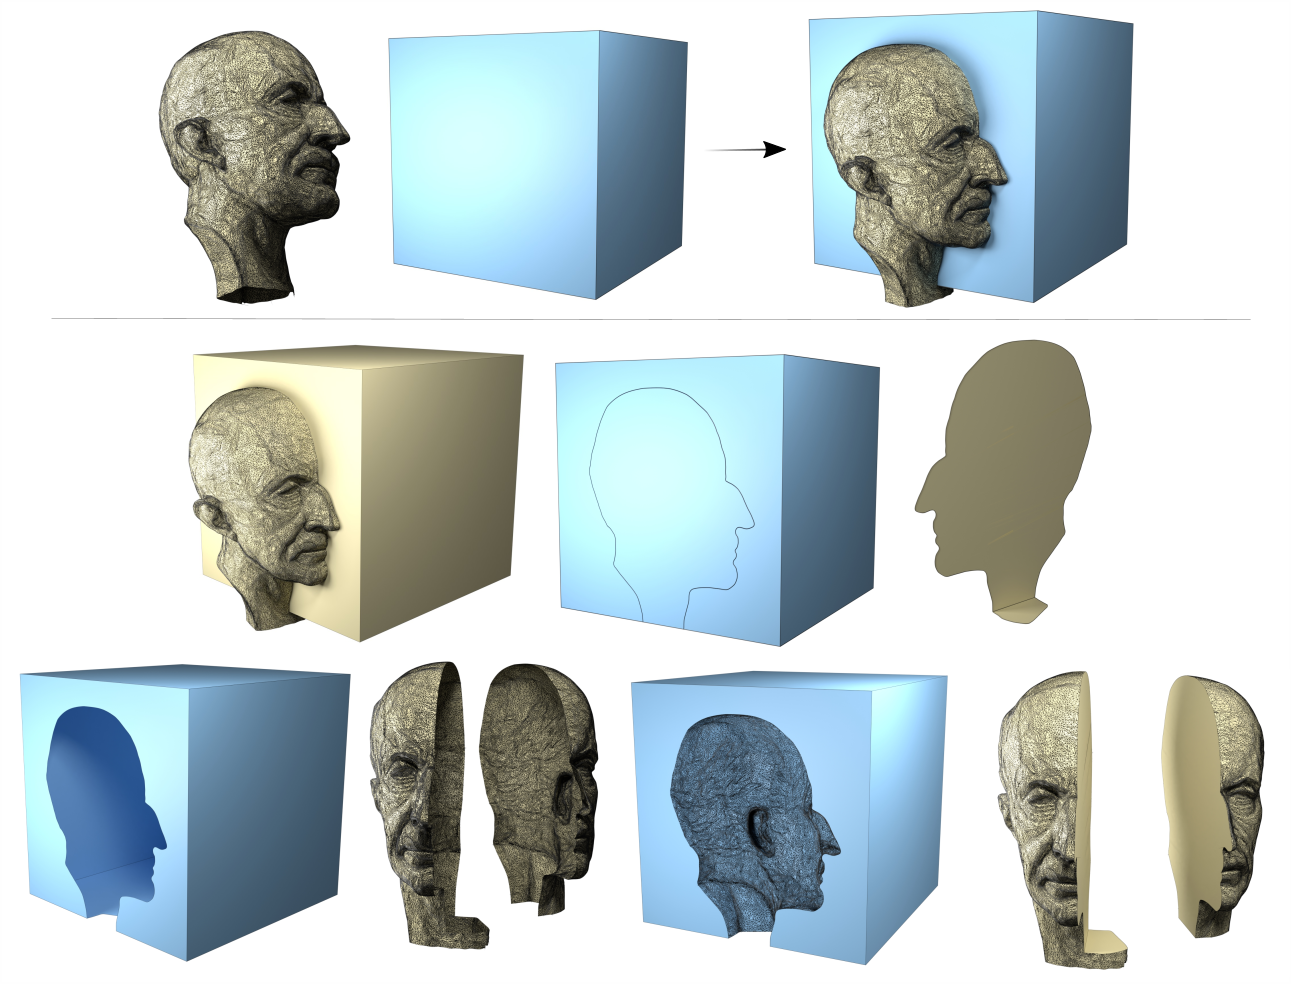
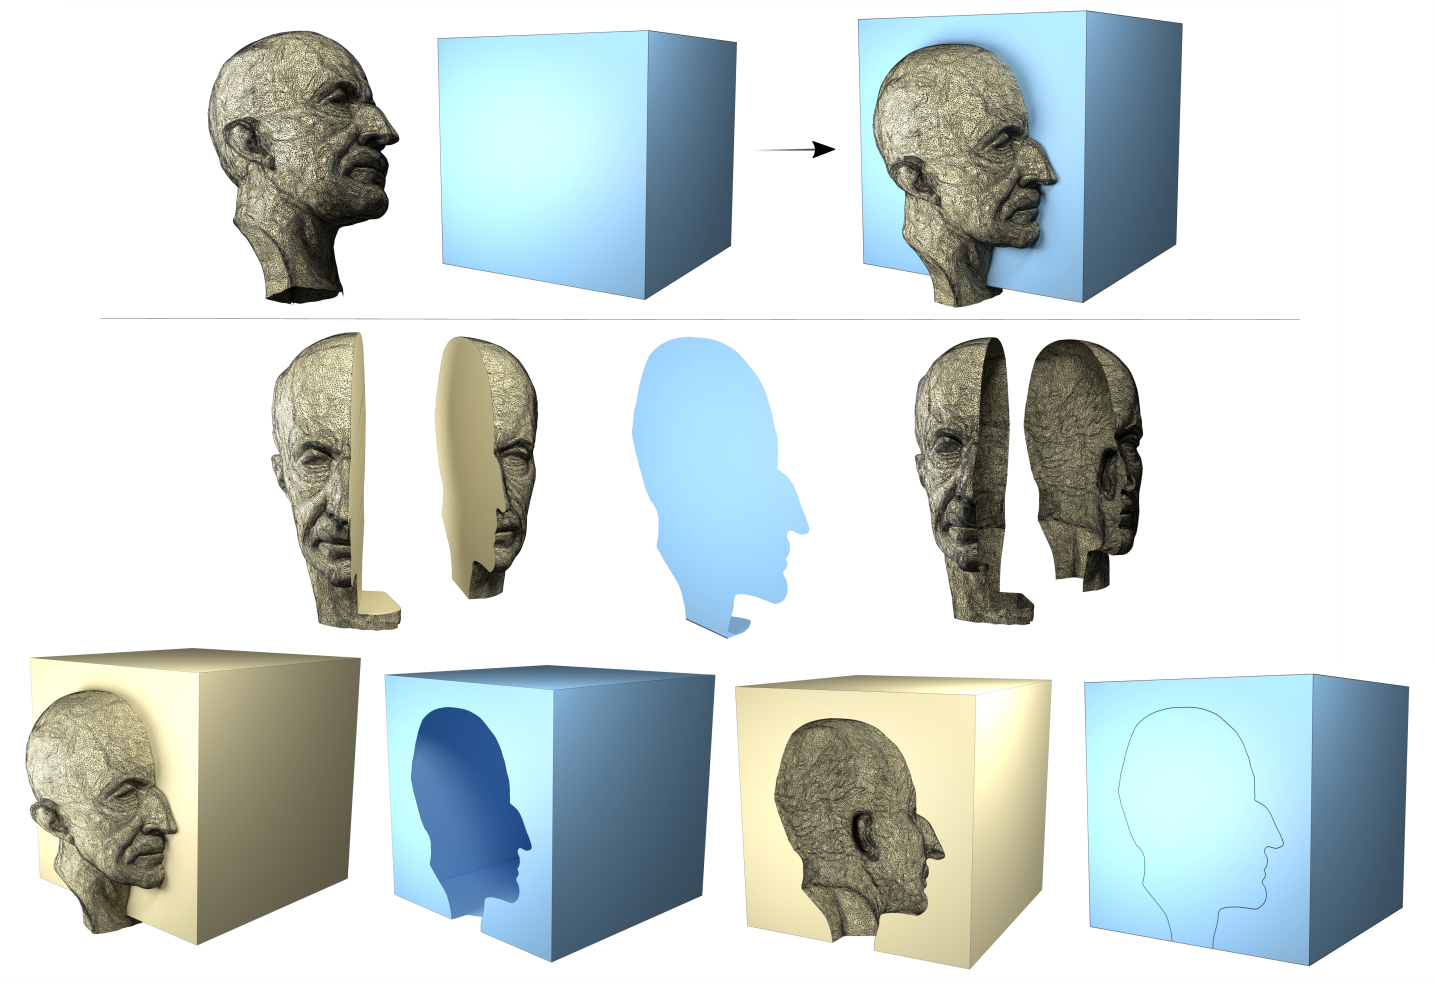
update index; update design principals

diff --git a/docs/index.md b/docs/index.md
@@ -6,11 +6,11 @@
     </div>
 </div>
 
-**MCUT** (pronounced 'emcut') is a tool for cutting meshes: It is a library for partitioning meshes that are two-manifold and is useful for operations like slicing and CSG boolean operations. 
+**MCUT** (pronounced 'emcut') is a tool for cutting meshes: It is a library for partitioning meshes that are two-manifold and is useful for operations like regular slicing and CSG boolean operations. 
 
-The library partitions shapes directly from input mesh data composed of geometry and connectivity to produce crisp fragments at fine scale. It is the only existing tool allowing cuts on planar-polygon meshes without requiring them to be triangulated solids.  
+The library partitions shapes directly using their geometry to produce crisp fragments at fine scale. It is the only existing tool for cutting planar-polygon meshes without necessarily requiring them to be triangulated solids.  
 
-MCUT also provides features like stencilling to produce cut-outs/patches of the cutting surface that is used to partition a given shape. It also supports intersection-curve queries and partial cuts, using one simple interface.
+MCUT also provides features like stencilling to produce cut-outs/patches of the cutting surface that is used to partition a given shape. It also supports intersection-curve queries and partial cuts.
 
 ## Motivation
 
@@ -26,13 +26,6 @@ In addition to being simple, fast and robust, MCUT is specifically designed to b
 * **Manifold meshes**: _open_  (with borders/boundaries), or _closed_ (as in 'watertight'). 
 * **Partial cuts**: A sliced object need not be completely cut into disjoint parts. 
 * **Stencilling**: Silhouette cut-outs of the cutting surface patches.
-* **Intersection curves**: Vertices/edges introduced as a result of the cut.
+* **Intersection curves**: Query vertices introduced as a result of a cut.
 * **Booleans**: Traditional CSG operations. 
-* **N-gons**: Arbitrary planar-polygon subdivisions. 
-
-### Example 
-
-![Teaser](media/mcut-cube-cut.png)
-
-The above image shows a simple example of what MCUT can do. On the left is a cube (the "source mesh") that is cut by a circular surface (the "cut mesh"), which together comprise the _input_. On the right is the resulting set of connected components after partitioning the cube. In general, the _output_ of MCUT includes unsealed fragments (mid-left), cut mesh patches (middle), and the sealed fragments whose holes have been filled with cut mesh polygons that lie on the interior of the source mesh. Sealing can also be done using cut mesh polygons that lie on the exterior of the source mesh. 
-
+* **N-gons**: Arbitrary planar-polygon meshes. 

diff --git a/docs/tutorials/designPrincipals.md b/docs/tutorials/designPrincipals.md
@@ -1,7 +1,18 @@
 # Design principles
 
-Here we summarize the main design principles in MCUT's design as a user interface:
+![Teaser](../media/mcut-cube-cut.png)
 
-1. **Simplicity**: As a user, you need only use standard arrays for passing data to MCUT, which are simple fixed-size sequential collections of elements of the same type. We expose MCUT functionality with a familiar C-style API which greatly favors code simplicity and makes code portable (e.g. for binding).
+Here we summarize the design principles of MCUT:
 
-2. **Minimal dependencies**: In general, MCUT has no dependancies. Users may however choose to use external libraries (in fact, just one which is MPFR) if they so desire, and we wrap them in a small set of configuration variables that can be set at build time (see [Compilation](building)).
+* **Fast**: Processing meshes with over 100k polygons in a few seconds.
+
+* **Robust**: Thorougly tested and works with exact predicates. 
+
+* **Simple**: Straightforward and portable C-API.
+
+* **Minimal**: Self-contained and without dependancies.
+
+----
+
+The above image depicts the gist of what MCUT does. On the left is a cube (the "source mesh") that is cut by a circular surface (the "cut mesh"), which together comprise the _input_. On the right is the resulting set of connected components after partitioning the cube. In general, the _output_ of MCUT includes unsealed fragments (mid-left), cut mesh patches (middle), and the sealed fragments whose holes have been filled with cut mesh polygons that lie on the interior of the source mesh. Sealing can also be done using cut mesh polygons that lie on the exterior of the source mesh. 
+
